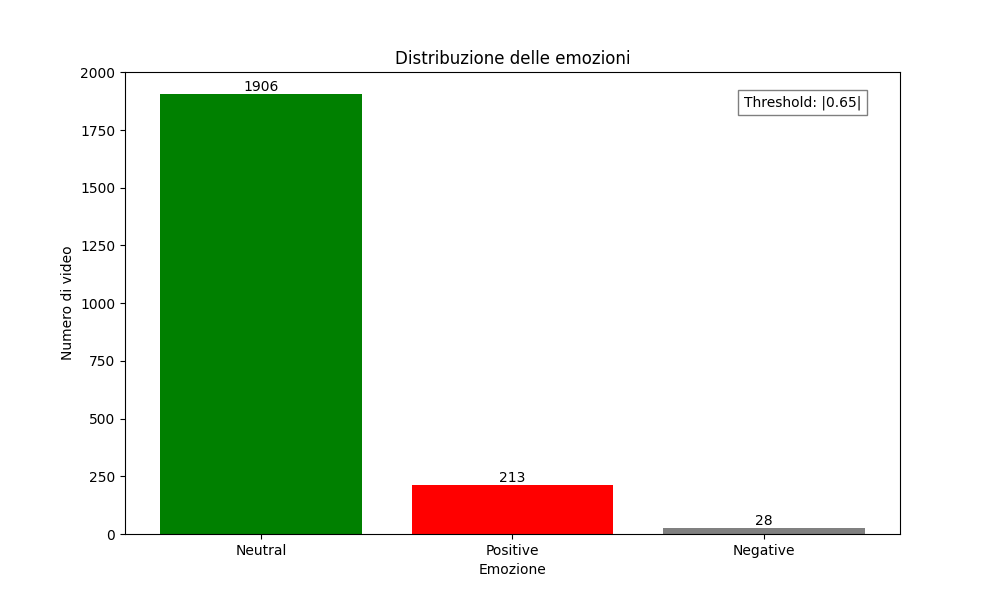
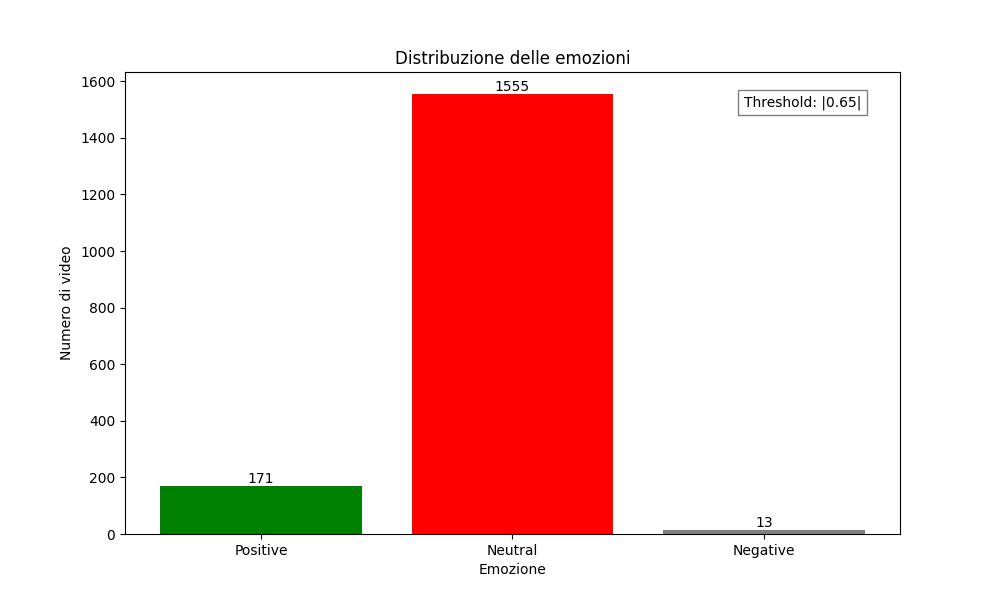
Refactor model training script to separate training and validation datasets; add validation data; update DataLoader implementation. Add new validation dataset CSV file.

diff --git a/src/models/train_model.py b/src/models/train_model.py
@@ -3,7 +3,7 @@
 
 import torch
 import torch.nn as nn
-from torch.utils.data import DataLoader, random_split
+from torch.utils.data import DataLoader
 from sklearn.metrics import f1_score
 import numpy as np
 import os, sys
@@ -31,6 +31,16 @@ PROCESSED_FILE = os.path.join(
 )
 MODEL_SAVE_PATH = os.path.join(BASE_DIR, "models", "emotion_lstm.pth")
 
+# Percorsi specifici per train e validation
+TRAIN_LANDMARKS_DIR = LANDMARKS_DIR
+TRAIN_PROCESSED_FILE = PROCESSED_FILE
+VAL_LANDMARKS_DIR = os.path.join(
+    BASE_DIR, "data", "raw", "val", "openpose_output_val", "json"
+)
+VAL_PROCESSED_FILE = os.path.join(
+    BASE_DIR, "data", "processed", "val", "video_sentiment_data_0.65.csv"
+)
+
 # Iperparametri
 # INPUT_SIZE = 468 * 3  # Calcolato dinamicamente dal dataset, non è più hard-coded
 HIDDEN_SIZE = 256  # Complessità del modello LSTM
@@ -51,18 +61,17 @@ else:
 print(f"Training su dispositivo: {device}")
 
 # --- Sezione 3: Caricamento Dati e Creazione del Modello ---
-# 1. Crea un'istanza del nostro Dataset
+# 1. Crea un'istanza dei nostri Dataset per train e validation
 train_dataset = LandmarkDataset(
-    landmarks_dir=LANDMARKS_DIR, processed_file=PROCESSED_FILE
+    landmarks_dir=TRAIN_LANDMARKS_DIR, processed_file=TRAIN_PROCESSED_FILE
+)
+val_dataset = LandmarkDataset(
+    landmarks_dir=VAL_LANDMARKS_DIR, processed_file=VAL_PROCESSED_FILE
 )
 
-# 2. Split train/validation (80/20) e DataLoader
-num_classes = len(train_dataset.labels)
-val_size = int(0.2 * len(train_dataset))
-train_size = len(train_dataset) - val_size
-train_subset, val_subset = random_split(train_dataset, [train_size, val_size])
-train_loader = DataLoader(train_subset, batch_size=BATCH_SIZE, shuffle=True)
-val_loader = DataLoader(val_subset, batch_size=BATCH_SIZE)
+# Rimuoviamo lo split e usiamo DataLoader separati
+train_loader = DataLoader(train_dataset, batch_size=BATCH_SIZE, shuffle=True)
+val_loader = DataLoader(val_dataset, batch_size=BATCH_SIZE)
 
 # Bilanciamento classi: calcoliamo il peso inverso della frequenza di ogni classe
 labels_array = train_dataset.processed["emotion"].map(train_dataset.label_map).values
@@ -76,6 +85,10 @@ class_weights = torch.tensor(class_weights, dtype=torch.float32).to(
 
 # 3. Determino dinamicamente la dimensione dell'input (numero di feature per frame) dal primo sample
 input_size = train_dataset[0][0].shape[1]  # lunghezza del vettore di feature
+
+# Determina numero di classi
+num_classes = len(train_dataset.labels)
+
 model = EmotionLSTM(input_size, HIDDEN_SIZE, NUM_LAYERS, num_classes, dropout=0.5).to(
     device
 )
